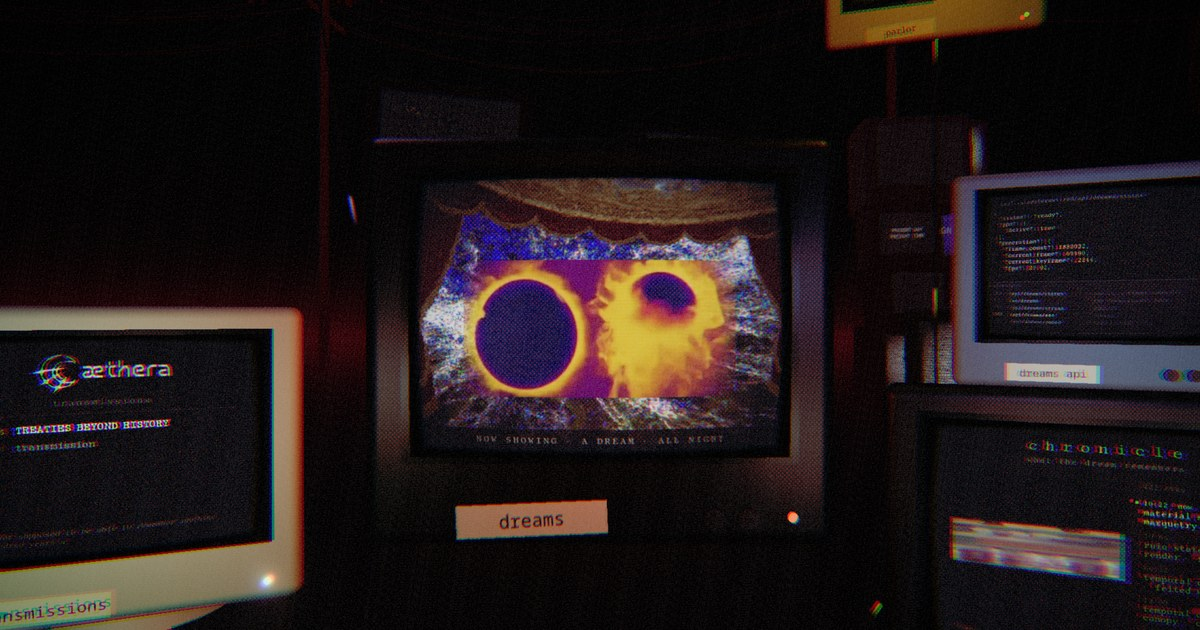
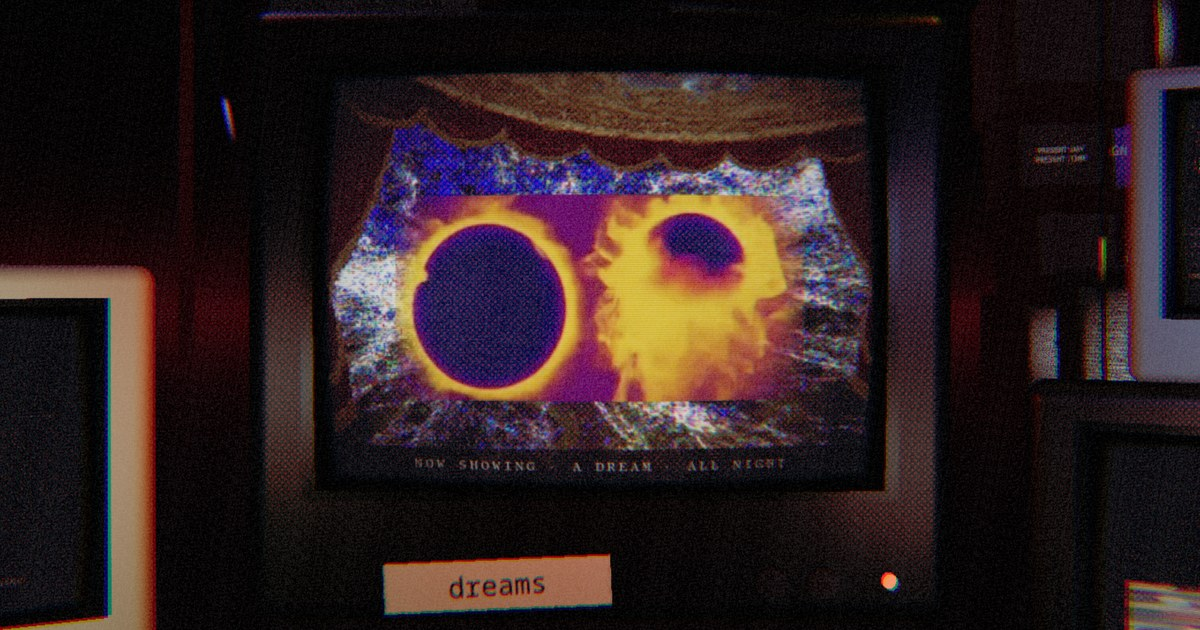
dreams: the card is the tight crop of the eclipse
Claude-Session: https://claude.ai/code/session_01Qebconz7XBy1kXBVZQv6bs

diff --git a/aethera/templates/dreams/viewer.html b/aethera/templates/dreams/viewer.html
@@ -21,7 +21,7 @@
 <meta property="og:url" content="https://aetherawi.red/dreams">
 <meta property="og:type" content="website">
 <meta property="og:site_name" content="æthera">
-<meta property="og:image" content="https://aetherawi.red/static/images/dreams-card.jpg">
+<meta property="og:image" content="https://aetherawi.red/static/images/dreams-card.jpg?v=2">
 <meta property="og:image:width" content="1200">
 <meta property="og:image:height" content="630">
 <meta property="og:image:alt" content="An old CRT television in a dark room of screens. On it, a dream plays on a little curtained stage: an eclipse, a ring of golden fire around a dark disc. A paper label below reads dreams.">
@@ -32,7 +32,7 @@
 <meta name="twitter:creator" content="@slLuxia">
 <meta name="twitter:title" content="dreams | æthera">
 <meta name="twitter:description" content="A dream that never stops: a live, continuous AI image stream.">
-<meta name="twitter:image" content="https://aetherawi.red/static/images/dreams-card.jpg">
+<meta name="twitter:image" content="https://aetherawi.red/static/images/dreams-card.jpg?v=2">
 <meta name="twitter:image:alt" content="An old CRT television in a dark room of screens. On it, a dream plays on a little curtained stage: an eclipse, a ring of golden fire around a dark disc. A paper label below reads dreams.">
 
 <meta name="theme-color" content="#000000">
